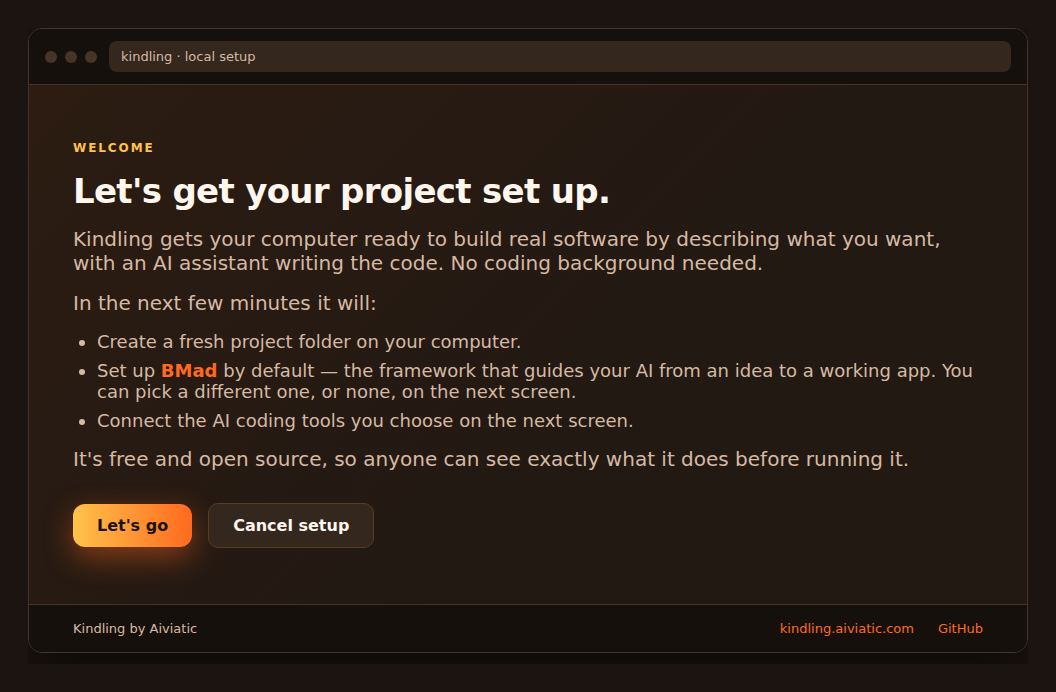
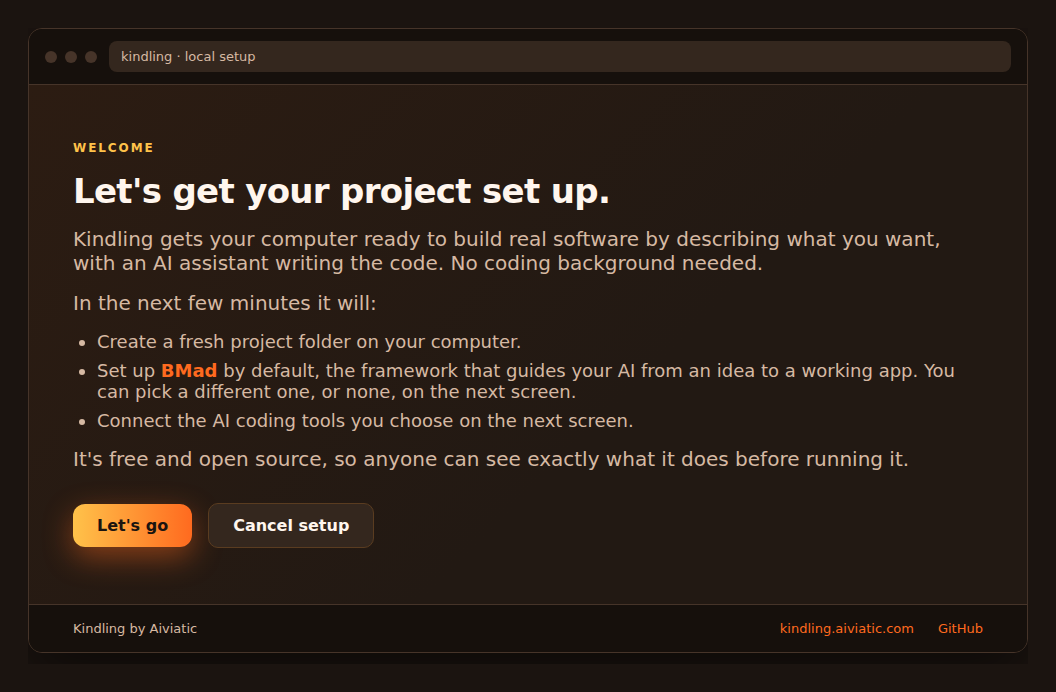
copy: README + installer copy pass (Paige review); drop em-dashes and tells
README: caption 3 -> "Kindling installs everything you selected, step by step";
fix the now-inaccurate "runs npx bmad-method install" (framework is optional);
split the long UI bullet; remove an em-dash.

Installer copy: drop em-dashes from the intro line and the No-framework progress
message; remove a unicode ellipsis from the Xcode-wait message; fix comma-splice
run-ons in the error/recovery copy; align "toolkit" -> "framework"; turn
appositive " - " dashes into colons/periods in the step messages; make the
Configure "can't Start yet" hint framework-aware (no "module" for No framework).
Regenerate the intro + progress screenshots.

Claude-Session: https://claude.ai/code/session_014Ay1bZiDNd65qr6ib2rPoq

Changed region(s): [[0.3125, 0.5159, 0.9375, 0.5462]]

diff --git a/engine/messages.ts b/engine/messages.ts
@@ -5,14 +5,14 @@ import { StepId, ErrorCode } from './contract';
 // keyed by a stable error code. Keys reference the StepId enum (never raw strings) so this
 // catalog stays in sync with the contract.
 export const stepMessages: Record<StepId, string> = {
-  [StepId.ProvisionNode]: 'Setting up Node - the engine your project runs on.',
-  [StepId.ProvisionGit]: 'Setting up Git - it keeps the history of your project safe.',
+  [StepId.ProvisionNode]: 'Setting up Node: the engine your project runs on.',
+  [StepId.ProvisionGit]: 'Setting up Git: it keeps the history of your project safe.',
   [StepId.ProvisionXcodeClt]:
     'macOS is installing some developer tools. A system dialog popped up: click Install. ' +
     'This is completely normal and usually takes about 5 minutes. You can grab a coffee.',
   [StepId.ScaffoldGitInit]: 'Creating your project folder and starting its history.',
   [StepId.InstallFramework]:
-    'Installing BMad - the toolkit that powers your project. This is a sizeable download, ' +
+    'Installing BMad, the framework that powers your project. This is a sizeable download, ' +
     'so it can take a couple of minutes. Nothing is stuck; hang tight.',
   [StepId.InstallAgentCli]:
     'Installing your AI coding assistant so it’s ready to run right after setup.',
@@ -27,7 +27,7 @@ export const agentCliMessages = {
   done: (name: string): string => `${name} is installed and ready to run.`,
   skipped: (name: string): string => `${name} is already installed, reusing it.`,
   failed: (name: string): string =>
-    `${name} didn’t finish installing - your project is still set up and ready. ` +
+    `${name} didn’t finish installing. Your project is still set up and ready. ` +
     `You can press Retry, or install it yourself later.`,
   manualInstall: (pkg: string): string => `To install it yourself later, run: npm install -g ${pkg}`,
 } as const;
@@ -45,13 +45,13 @@ export const scaffoldMessages = {
 // Provisioning detection copy (per tool, by detected state).
 export const provisionMessages = {
   nodePresent: 'Node is already installed, reusing it.',
-  nodeQueued: 'Node needs setting up - the engine your project runs on.',
+  nodeQueued: 'Node needs setting up: the engine your project runs on.',
   gitPresent: 'Git is already installed, reusing it.',
-  gitQueued: 'Git needs setting up - it keeps the history of your project.',
+  gitQueued: 'Git needs setting up: it keeps the history of your project.',
   gitInstalled: 'Git is set up.',
   xcodeWaiting:
-    'Still installing developer tools… the macOS dialog is doing its thing. This can take a few minutes, hang tight, nothing is stuck.',
-  xcodeDone: 'Developer tools are ready - Git is set up.',
+    'Still installing developer tools. The macOS dialog is doing its thing. This can take a few minutes, hang tight, nothing is stuck.',
+  xcodeDone: 'Developer tools are ready. Git is set up.',
   xcodeTimeout:
     'The developer-tools install is taking longer than expected. If the macOS dialog is still open, let it finish, then press Retry.',
   xcodeInstallFailed:
@@ -79,7 +79,7 @@ export const errorMessages: Record<ErrorCode, string> = {
   [ErrorCode.NetworkLost]: 'We lost the connection. Reconnect to the internet, then press Retry.',
   [ErrorCode.BmadInstallFailed]: 'BMad didn’t finish installing. The details are below, press Retry.',
   [ErrorCode.AgentCliInstallFailed]:
-    'Your AI coding assistant didn’t finish installing - your project is still ready. Press Retry, or install it yourself later.',
+    'Your AI coding assistant didn’t finish installing. Your project is still ready. Press Retry, or install it yourself later.',
   [ErrorCode.ExecPolicyBlocked]: 'Windows blocked the script because it’s unsigned, that’s expected, safe, and reversible.',
   [ErrorCode.SmartScreenBlocked]: 'Windows SmartScreen (or your antivirus) paused the script, that’s expected, safe, and reversible.',
   [ErrorCode.ProjectConflict]: 'That folder already has files in it that Kindling didn’t create.',
@@ -105,19 +105,19 @@ export interface RecoveryGuidance {
 export const recoveryGuidance: Record<ErrorCode, RecoveryGuidance> = {
   [ErrorCode.ExecFailed]: {
     title: 'Something needs a quick fix.',
-    detail: 'A step didn’t finish. This usually clears up on a second try, press Retry.',
+    detail: 'A step didn’t finish. This usually clears up on a second try. Press Retry.',
     recovery: 'retry',
   },
   [ErrorCode.NetworkLost]: {
     title: 'We lost the connection.',
     detail:
-      'A download was interrupted. Reconnect to the internet, then press Retry, Kindling resumes where it left off.',
+      'A download was interrupted. Reconnect to the internet, then press Retry. Kindling picks up where it left off.',
     recovery: 'retry',
   },
   [ErrorCode.BmadInstallFailed]: {
     title: 'BMad didn’t install.',
     detail:
-      'The install step didn’t finish. This is usually temporary, press Retry. The step details below show what happened.',
+      'The install step didn’t finish. This is usually temporary. Press Retry. The step details below show what happened.',
     recovery: 'retry',
   },
   [ErrorCode.AgentCliInstallFailed]: {
@@ -126,7 +126,7 @@ export const recoveryGuidance: Record<ErrorCode, RecoveryGuidance> = {
     // message (agentCliMessages.manualInstall) rather than in this static, error-code-keyed entry.
     title: 'Your AI assistant didn’t install.',
     detail:
-      'Your project is set up and ready either way, this step is optional. Press Retry to try again, or install it yourself later using the command shown in the step details below.',
+      'Your project is set up and ready either way. This step is optional. Press Retry to try again, or install it yourself later using the command shown in the step details below.',
     recovery: 'retry',
   },
   [ErrorCode.ExecPolicyBlocked]: {

diff --git a/ui/dev/gallery.tsx b/ui/dev/gallery.tsx
@@ -53,7 +53,7 @@ const progressFrames = [
   ev({ step: StepId.ProvisionGit, status: Status.Done, humanMessage: 'Git is ready.' }),
   ev({ step: StepId.InstallAgentCli, status: Status.Done, humanMessage: 'Installed the Claude Code CLI.' }),
   ev({ step: StepId.ScaffoldGitInit, status: Status.Done, humanMessage: 'Created your project and made the first commit.' }),
-  ev({ step: StepId.InstallFramework, status: Status.Working, pct: 60, humanMessage: 'Installing BMad into your project…' }),
+  ev({ step: StepId.InstallFramework, status: Status.Working, pct: 60, humanMessage: 'Installing BMad, the framework that powers your project.' }),
   ev({ step: StepId.FinalizeSelfCheck, status: Status.Queued, humanMessage: 'Next: check everything over.' }),
 ];
 

diff --git a/ui/screens/Intro.tsx b/ui/screens/Intro.tsx
@@ -23,7 +23,7 @@ export function Intro({ onContinue, onCancel }: IntroProps) {
       <ul className="intro-list">
         <li>Create a fresh project folder on your computer.</li>
         <li>
-          Set up <BmadLink><b>BMad</b></BmadLink> by default — the framework that guides your AI from
+          Set up <BmadLink><b>BMad</b></BmadLink> by default, the framework that guides your AI from
           an idea to a working app. You can pick a different one, or none, on the next screen.
         </li>
         <li>Connect the AI coding tools you choose on the next screen.</li>

diff --git a/ui/screens/Configure.tsx b/ui/screens/Configure.tsx
@@ -416,7 +416,9 @@ export function Configure({
         )}
         {!canStart && (
           <span className="start-note" role="status">
-            Pick at least one tool and one module, and keep a project name and folder.
+            {isBmad
+              ? 'Pick at least one tool and one item under Include, and keep a project name and folder.'
+              : 'Pick at least one tool, and keep a project name and folder.'}
           </span>
         )}
       </div>

diff --git a/engine/framework/none-provider.ts b/engine/framework/none-provider.ts
@@ -16,7 +16,7 @@ export const noneProvider: FrameworkProvider = {
       phase: Phase.Install,
       step: StepId.InstallFramework,
       status: Status.Done,
-      humanMessage: 'No framework selected — your project is a clean starting point.',
+      humanMessage: 'No framework selected. Your project is a clean starting point.',
       level: 'info',
       timestamp: new Date().toISOString(),
     });

diff --git a/README.md b/README.md
@@ -24,7 +24,7 @@ Everything happens in your browser, in plain language. Here's the whole journey:
 
 ![Kindling's configure screen](docs/screenshots/configure.png)
 
-**3. Honest, never-frozen progress while it works.**
+**3. Kindling installs everything you selected, step by step.**
 
 ![Kindling's progress screen](docs/screenshots/progress.png)
 
@@ -46,12 +46,13 @@ Three layers, so the scary parts happen where they can be explained:
      `setup.ps1` over HTTPS).
 2. **A temporary localhost server** (`server/`) stands up on `127.0.0.1`, serves a
    friendly browser UI, provisions Git where the bootstrap hasn't already, scaffolds
-   the project, runs `npx bmad-method install`, and installs any agent CLIs you opt
-   into. It exits when the install completes.
-3. **A browser UI** (`ui/`) walks you through the few choices (project folder and
-   name, tools, and framework) and shows honest progress, grouped into system setup
-   and project setup, including the ~5-minute macOS developer-tools dialog, so it
-   never looks frozen.
+   the project, installs your chosen framework (BMad by default, via
+   `npx bmad-method install`), and installs any agent CLIs you opt into. It exits when
+   the install completes.
+3. **A browser UI** (`ui/`) walks you through the few choices: project folder and
+   name, tools, and framework. Progress is grouped into system setup and project
+   setup, and it keeps moving even through the ~5-minute macOS developer-tools
+   dialog, so it never looks frozen.
 
 The installer is published to npm as **`@aiviatic/kindling`**; the bootstrap's
 final step is `npx @aiviatic/kindling@<pinned-version>`.
